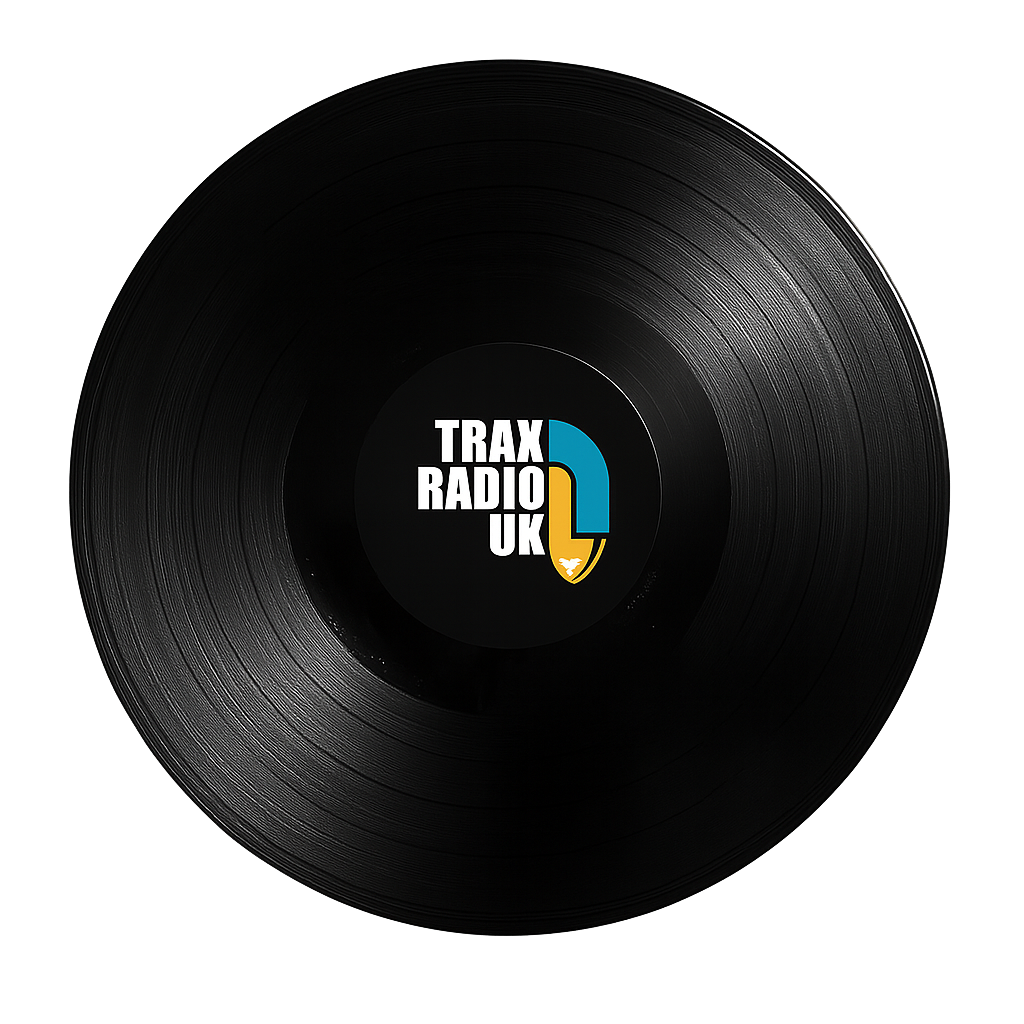
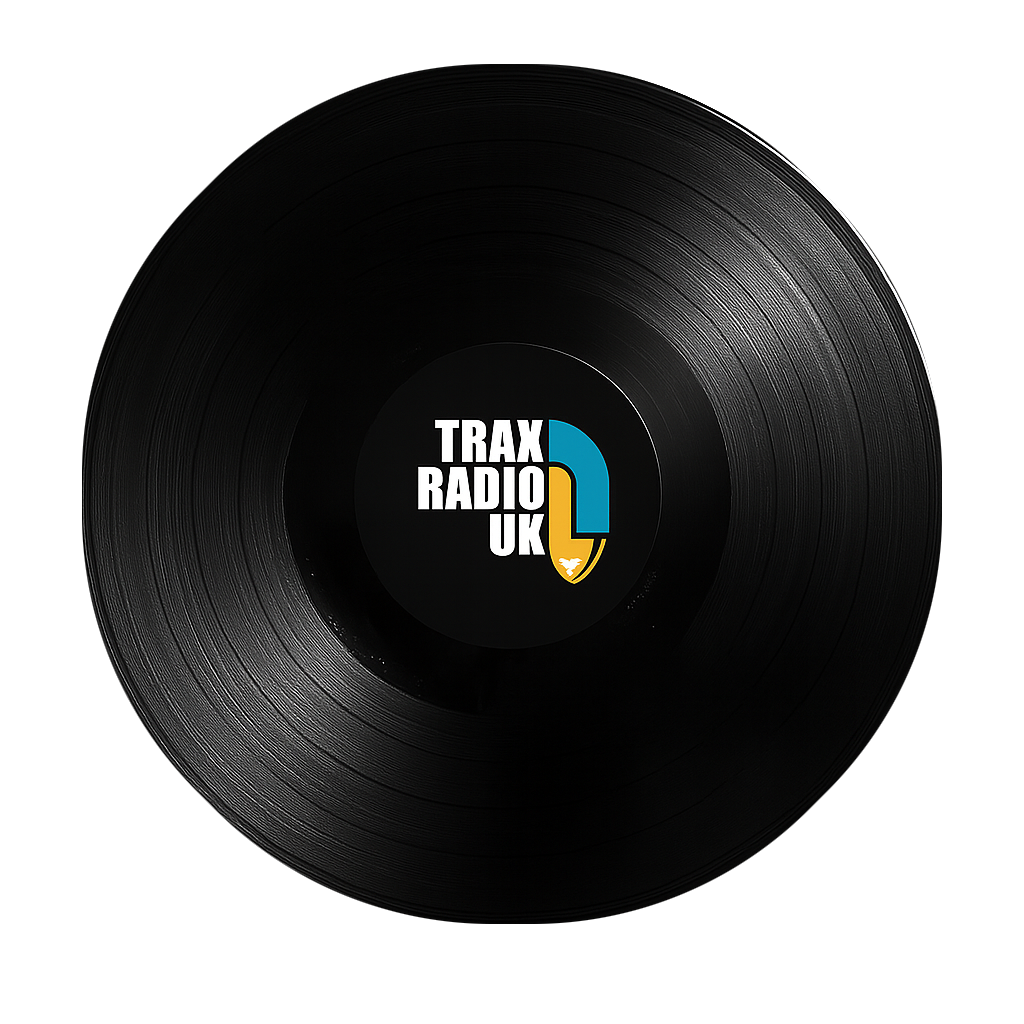
Working turntable: proportional record scaling and cross-orientation alignment

diff --git a/trax_radio/lib/main.dart b/trax_radio/lib/main.dart
@@ -1,5 +1,6 @@
 import 'package:flutter/material.dart';
 import 'package:just_audio/just_audio.dart';
+import 'package:flutter/scheduler.dart';
 
 void main() {
   runApp(const TraxRadioApp());
@@ -29,21 +30,31 @@ class RadioHomePage extends StatefulWidget {
   State<RadioHomePage> createState() => _RadioHomePageState();
 }
 
-class _RadioHomePageState extends State<RadioHomePage> {
+class _RadioHomePageState extends State<RadioHomePage> with SingleTickerProviderStateMixin {
   final _player = AudioPlayer();
   bool _isPlaying = false;
   bool _isLoading = false;
 
   final String streamUrl = 'https://hello.citrus3.com:8138/stream';
+  late final AnimationController _controller;
 
   @override
   void initState() {
     super.initState();
+    _controller = AnimationController(
+      vsync: this,
+      duration: const Duration(seconds: 4),
+    );
     _player.playerStateStream.listen((state) {
       setState(() {
         _isPlaying = state.playing;
         _isLoading = state.processingState == ProcessingState.loading ||
             state.processingState == ProcessingState.buffering;
+        if (_isPlaying) {
+          _controller.repeat();
+        } else {
+          _controller.stop();
+        }
       });
     });
   }
@@ -66,6 +77,7 @@ class _RadioHomePageState extends State<RadioHomePage> {
 
   @override
   void dispose() {
+    _controller.dispose();
     _player.dispose();
     super.dispose();
   }
@@ -96,28 +108,32 @@ class _RadioHomePageState extends State<RadioHomePage> {
                   final size = constraints.maxWidth < constraints.maxHeight
                       ? constraints.maxWidth
                       : constraints.maxHeight;
+                  const recordFactor = 0.7;
                   return SizedBox(
                     width: size,
                     height: size,
                     child: Stack(
                       alignment: Alignment.center,
                       children: [
+                        Transform.translate(
+                          offset: Offset(-0.13 * size + 10, -0.014 * size),
+                          child: FractionallySizedBox(
+                            widthFactor: recordFactor,
+                            heightFactor: recordFactor,
+                            child: RotationTransition(
+                              turns: _controller,
+                              child: Image.asset(
+                                'assets/record.png',
+                                fit: BoxFit.contain,
+                              ),
+                            ),
+                          ),
+                        ),
                         Image.asset(
                           'assets/turntable.png',
                           fit: BoxFit.contain,
                           width: size,
                           height: size,
-                        ),
-                        Transform.translate(
-                          offset: const Offset(-92, -9),
-                          child: FractionallySizedBox(
-                            widthFactor: 0.67,
-                            heightFactor: 0.67,
-                            child: Image.asset(
-                              'assets/record.png',
-                              fit: BoxFit.contain,
-                            ),
-                          ),
                         ),
                       ],
                     ),
